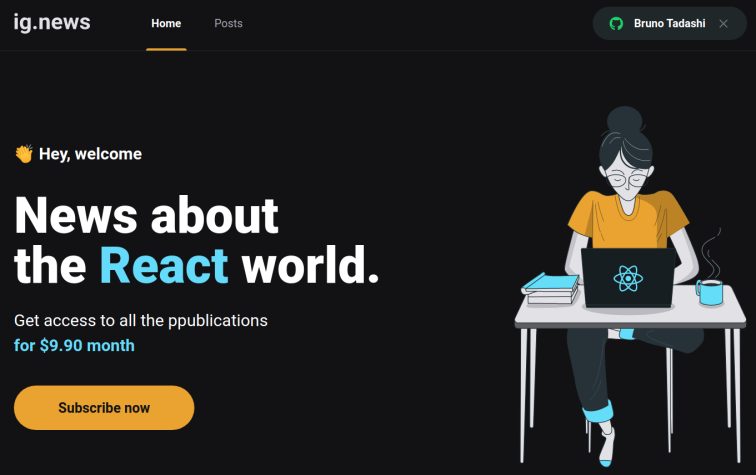
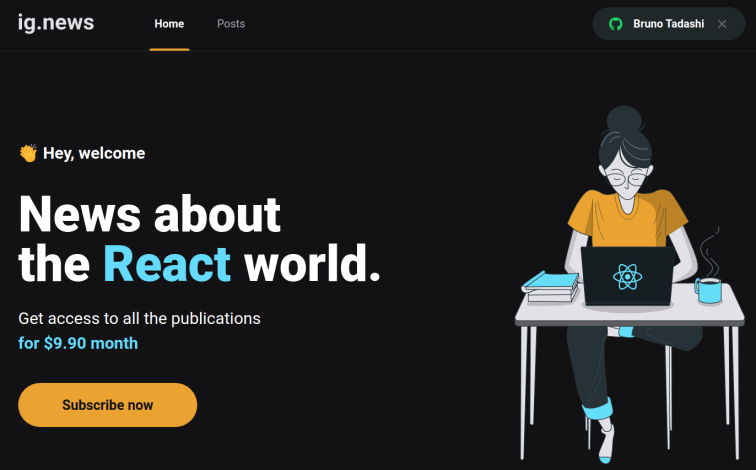
Added screenshots

diff --git a/src/pages/index.tsx b/src/pages/index.tsx
@@ -24,7 +24,7 @@ export default function Home({ product }: HomeProps) {
           <span>👏 Hey, welcome</span>
           <h1>News about <br /> the <span>React</span> world.</h1>
           <p>
-            Get access to all the ppublications <br />
+            Get access to all the publications <br />
             <span>for {product.amount} month</span>
           </p>
           <SubscribeButton priceId={product.priceId} />
